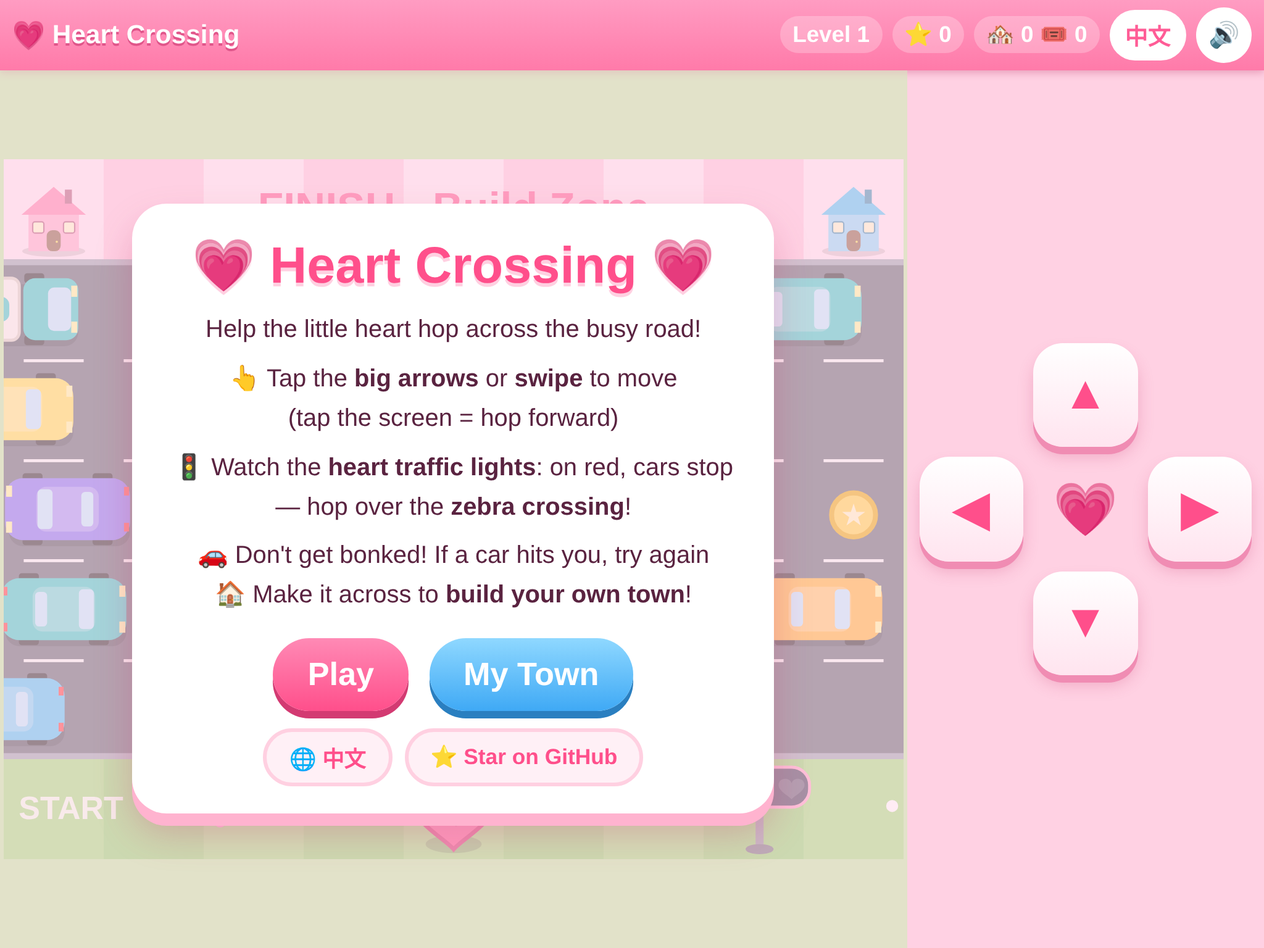
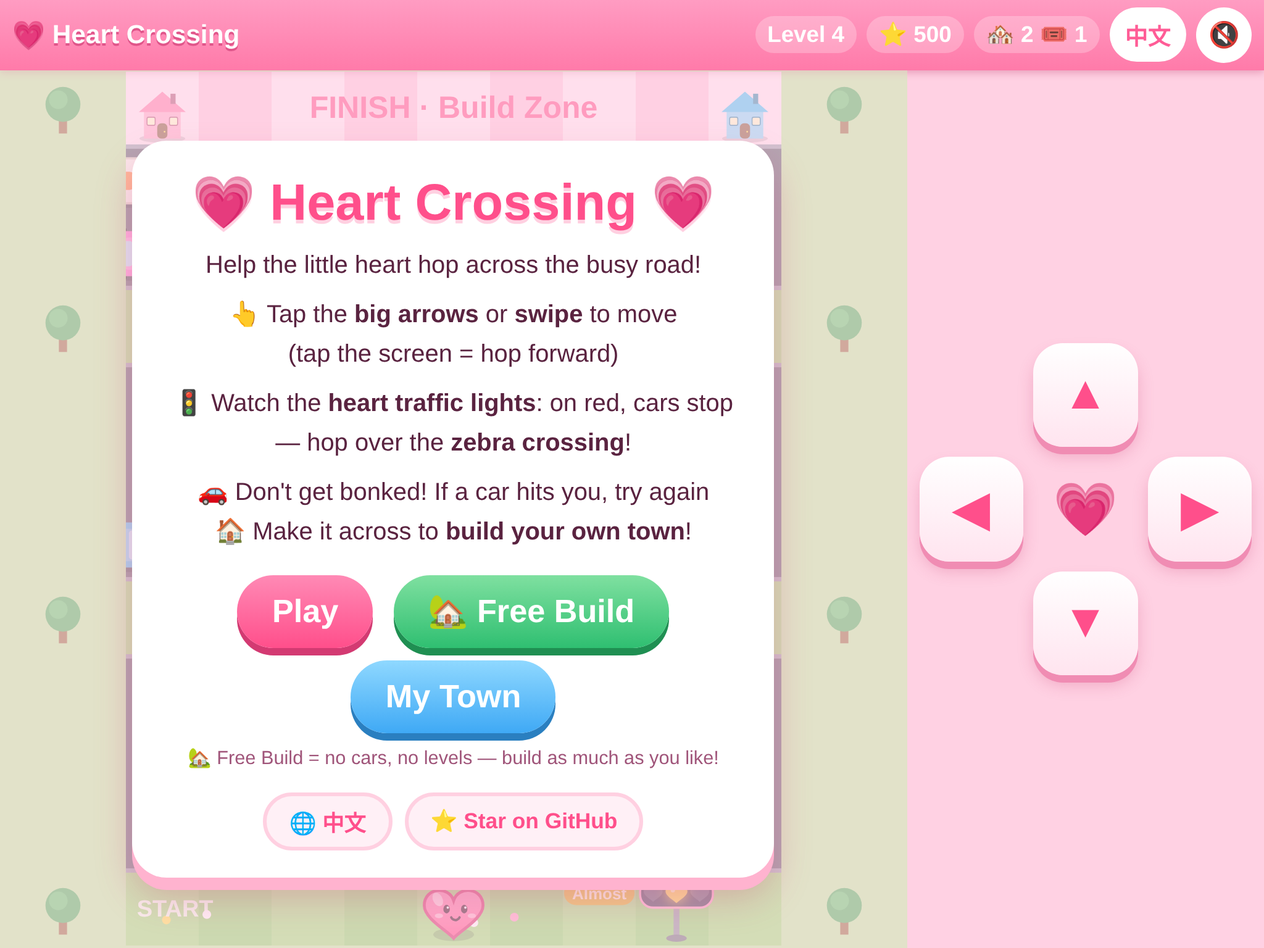
Add Free Build mode (自由蓋小鎮): unlimited building, 10x6 map, separate save, ?mode=free

diff --git a/index.html b/index.html
@@ -96,7 +96,12 @@ body.building #pad,body.inroom #pad{display:none;}
 .shareCard .row{display:flex;gap:10px;justify-content:center;flex-wrap:wrap;margin-top:8px;}
 .shareCard .big{margin:0;text-decoration:none;font-size:clamp(17px,2.8vmin,24px);padding:12px 22px;}
 #winShareBtn{background:linear-gradient(#ffe066,#ffb02e);box-shadow:0 6px 0 #d98a00;color:#6a3d00;animation:pop .4s ease-out;}
-#hud button.lang{width:auto;min-width:3.4em;padding:0 12px;font-size:1em;}
+.big.free{background:linear-gradient(#7fe0a0,#2fbf71);box-shadow:0 6px 0 #1f8f52;}
+.big.free:active{box-shadow:0 2px 0 #1f8f52;}
+.card .freeNote{font-size:clamp(13px,2vmin,16px);color:#a0557a;margin:.6em 0 0;}
+body.free #hLevel,body.free #hScore,body.free #goBtn,body.free #winShareBtn{display:none !important;}
+#menuBtn{min-height:44px;}
+#hud button.lang{width:auto;min-width:3.4em;padding:0 12px;font-size:1em;min-height:44px;}
 .cardFoot{margin-top:14px;display:flex;gap:10px;justify-content:center;flex-wrap:wrap;}
 .pill{min-height:44px;padding:8px 18px;border-radius:999px;background:#fff0f6;border:3px solid #ffd0e1;color:#ff4f8b;font-weight:900;
   font-size:clamp(15px,2.3vmin,19px);text-decoration:none;display:inline-flex;align-items:center;font-family:inherit;}
@@ -142,7 +147,9 @@ body.building #pad,body.inroom #pad{display:none;}
           <p data-i18n="how2"></p>
           <p data-i18n="how3"></p>
           <button class="big" id="startBtn" data-i18n="start">Play</button>
+          <button class="big free" id="freeBtn" data-i18n="free">🏡 Free Build</button>
           <button class="big alt" id="townBtn" data-i18n="town">My Town</button>
+          <p class="freeNote" data-i18n="freeNote"></p>
           <div class="cardFoot">
             <button class="pill" id="langBtn2">🌐 中文</button>
             <a class="pill" id="starLink" href="https://github.com/designowpro-debug/heart-crossing-game" target="_blank" rel="noopener" data-i18n="star">⭐ Star on GitHub</a>
@@ -190,6 +197,7 @@ body.building #pad,body.inroom #pad{display:none;}
         <button class="big hidden" id="winShareBtn">🎉 Share</button>
         <button class="big" id="goBtn">🚗 Cross!</button>
         <button class="big alt" id="shareBtn" data-i18n="shareTown">📸 Share my town</button>
+        <button class="pill" id="menuBtn" data-i18n="menu">🏠 Menu</button>
         <button id="clearBtn" data-i18n="clearTown">Clear town</button>
       </div>
     </div>
@@ -244,7 +252,12 @@ en:{docTitle:'Heart Crossing – cute road-crossing & town-building game',hudTit
  shareEmpty:'Cross the road to start building!',docTitleShort:'Heart Crossing',
  shareText:'I built my own Heart Town with {n} buildings and reached Level {l}! 💗 Come play Heart Crossing:',
  shareText1:'I started my own Heart Town and reached Level {l}! 💗 Come play Heart Crossing:',
- shareTextLevel:'I cleared Level {n} in Heart Crossing! 💗 Can you beat it?'},
+ shareTextLevel:'I cleared Level {n} in Heart Crossing! 💗 Can you beat it?',
+ free:'🏡 Free Build',menu:'🏠 Menu',freeNote:'🏡 Free Build = no cars, no levels — build as much as you like!',
+ bmFree:'🏡 Free Build: tap an empty spot to build: {k} — as many as you like! Tap a house to go inside 🛋',
+ cfHouseF:'Remove this house? The furniture inside will be gone too!',cfOtherF:'Remove the {n}?',removedF:'Removed! Build something new here 🏗',rmModeF:'Tap something to remove it',
+ shareFree:'My Heart Town: {n} buildings',shareFree1:'My Heart Town: 1 building',
+ shareTextFree:'I built my own Heart Town with {n} buildings! 💗 Build yours in Heart Crossing:',shareTextFree1:'I started building my own Heart Town! 💗 Build yours in Heart Crossing:'},
 zh:{docTitle:'愛心過馬路',hudTitle:'💗 愛心過馬路',sound:'聲音',lang:'語言',
  cardTitle:'💗 愛心過馬路 💗',intro:'幫小愛心穿過好多車子的馬路！',
  how1:'👆 用<b>大箭頭按鈕</b>，或在畫面上<b>滑一下</b>來移動<br>（點一下畫面 = 往前跳）',
@@ -282,7 +295,12 @@ zh:{docTitle:'愛心過馬路',hudTitle:'💗 愛心過馬路',sound:'聲音',la
  shareEmpty:'快去過馬路，開始蓋小鎮吧！',docTitleShort:'愛心過馬路',
  shareText:'我在「愛心過馬路」蓋了 {n} 個建築，已經到第 {l} 關了！💗 一起來玩：',
  shareText1:'我在「愛心過馬路」開始蓋小鎮，已經到第 {l} 關了！💗 一起來玩：',
- shareTextLevel:'我在「愛心過馬路」過了第 {n} 關！💗 你也來挑戰：'}
+ shareTextLevel:'我在「愛心過馬路」過了第 {n} 關！💗 你也來挑戰：',
+ free:'🏡 自由蓋小鎮',menu:'🏠 選單',freeNote:'🏡 自由蓋小鎮＝沒有車子、沒有關卡，想蓋多少就蓋多少！',
+ bmFree:'🏡 自由蓋小鎮：點空地蓋{k}，想蓋幾個都可以！點房子進去佈置 🛋',
+ cfHouseF:'要拆掉這棟房子嗎？裡面的家具也會不見喔！',cfOtherF:'要拆掉「{n}」嗎？',removedF:'拆掉了！可以在這裡蓋新的東西 🏗',rmModeF:'點一下要拆掉的東西',
+ shareFree:'我的愛心小鎮：{n} 個建築',shareFree1:'我的愛心小鎮：1 個建築',
+ shareTextFree:'我在「愛心過馬路」蓋了 {n} 個建築的愛心小鎮！💗 你也來蓋：',shareTextFree1:'我在「愛心過馬路」開始蓋愛心小鎮了！💗 你也來蓋：'}
 };
 var LANG=(function(){var q=(location.search.match(/[?&]lang=([a-zA-Z-]+)/)||[])[1];
   if(q){q=/^zh/i.test(q)?'zh':'en';try{localStorage.setItem('heartLang',q);}catch(e){}return q;}
@@ -298,16 +316,20 @@ var stage=document.getElementById('stage');
 var $=function(id){return document.getElementById(id);};
 
 // ---------- save ----------
-var save={houses:[],tickets:0,level:1,score:0,muted:false,style:0,color:0,kind:'house',gstyle:0,pstyle:0,ystyle:0,v:4};
-try{var s=JSON.parse(localStorage.getItem(SAVE_KEY)||'null'); if(s&&typeof s==='object'){for(var k in save){if(k in s)save[k]=s[k];}}}catch(e){}
-// migrate v1 -> v2: every house gets an id and its own interior (items)
-if(!Array.isArray(save.houses))save.houses=[];
-save.houses=save.houses.filter(function(h){return h&&typeof h==='object'&&isFinite(h.c)&&isFinite(h.r);});
-save.houses.forEach(function(h,i){if(!h.id)h.id='h'+Date.now().toString(36)+i;if(['garden','pond','play'].indexOf(h.kind)<0)h.kind='house';
-  if(!Array.isArray(h.items))h.items=[];
-  h.items=h.items.filter(function(it){return it&&typeof it.t==='string'&&isFinite(it.x)&&isFinite(it.y);});});
-if(['house','garden','pond','play'].indexOf(save.kind)<0)save.kind='house';save.v=4;
-function persist(){try{localStorage.setItem(SAVE_KEY,JSON.stringify(save,function(k,v){return (k==='pop'||k==='fxT')?undefined:v;}));}catch(e){}}
+var FREE_KEY='heartTownFree_v1',FREE=false;
+function loadSave(key){
+  var o={houses:[],tickets:0,level:1,score:0,muted:false,style:0,color:0,kind:'house',gstyle:0,pstyle:0,ystyle:0,v:4};
+  try{var s=JSON.parse(localStorage.getItem(key)||'null'); if(s&&typeof s==='object'){for(var k in o){if(k in s)o[k]=s[k];}}}catch(e){}
+  // migrate older saves: every house gets an id and its own interior (items)
+  if(!Array.isArray(o.houses))o.houses=[];
+  o.houses=o.houses.filter(function(h){return h&&typeof h==='object'&&isFinite(h.c)&&isFinite(h.r);});
+  o.houses.forEach(function(h,i){if(!h.id)h.id='h'+Date.now().toString(36)+i;if(['garden','pond','play'].indexOf(h.kind)<0)h.kind='house';
+    if(!Array.isArray(h.items))h.items=[];
+    h.items=h.items.filter(function(it){return it&&typeof it.t==='string'&&isFinite(it.x)&&isFinite(it.y);});});
+  if(['house','garden','pond','play'].indexOf(o.kind)<0)o.kind='house';o.v=4;return o;
+}
+var saveC=loadSave(SAVE_KEY),saveF=loadSave(FREE_KEY),save=saveC;
+function persist(){try{localStorage.setItem(FREE?FREE_KEY:SAVE_KEY,JSON.stringify(save,function(k,v){return (k==='pop'||k==='fxT')?undefined:v;}));}catch(e){}}
 
 // ---------- audio ----------
 var actx=null;
@@ -399,7 +421,7 @@ function buildLevel(){
 }
 
 var hintTimer=null;function showHint(){var h=$('hint');h.classList.remove('hidden');h.style.opacity='1';clearTimeout(hintTimer);hintTimer=setTimeout(function(){h.style.opacity='0';setTimeout(function(){h.classList.add('hidden');},500);},4500);}
-function startPlay(){unlockAudio();$('winShareBtn').classList.add('hidden');setTimeout(showHint,0);hideAll();document.body.classList.remove('building','inroom');buildLevel();mode='play';updateHud();}
+function startPlay(){unlockAudio();if(FREE)setFreeMode(false);$('winShareBtn').classList.add('hidden');setTimeout(showHint,0);hideAll();document.body.classList.remove('building','inroom');buildLevel();mode='play';updateHud();}
 function hideAll(){['titleScreen','crashScreen','buildBar','roomBar','hint','shareModal'].forEach(function(id){$(id).classList.add('hidden');});}
 
 function move(dir){
@@ -438,7 +460,7 @@ function enterBuild(msg){
 }
 function buildMsg(msg){
   var m=msg||'';
-  if(!m){var kn=(KINDS.filter(function(x){return x.k===save.kind;})[0]||KINDS[0]).n;m=save.tickets>0?T('bmHave',{n:save.tickets,k:kn}):(save.houses.length?T('bmHouses'):T('bmNone'));}
+  if(!m){var kn=(KINDS.filter(function(x){return x.k===save.kind;})[0]||KINDS[0]).n;m=FREE?T('bmFree',{k:kn}):save.tickets>0?T('bmHave',{n:save.tickets,k:kn}):(save.houses.length?T('bmHouses'):T('bmNone'));}
   $('buildMsg').textContent=m;
 }
 function updateGoBtn(){$('goBtn').textContent=T('go',{n:save.level});}
@@ -446,7 +468,7 @@ function updateGoBtn(){$('goBtn').textContent=T('go',{n:save.level});}
 function updateHud(){
   $('hLevel').textContent=T('level',{n:save.level});
   $('hScore').textContent='⭐ '+(save.score+(mode==='play'?0:0));
-  $('hHouses').textContent='🏘 '+save.houses.length+' 🎟 '+save.tickets;
+  $('hHouses').textContent=FREE?('🏘 '+save.houses.length):('🏘 '+save.houses.length+' 🎟 '+save.tickets);
   $('muteBtn').textContent=save.muted?'🔇':'🔊';
 }
 
@@ -683,6 +705,13 @@ function drawHouse(cx,base,s,style,color,pop){
 var town={x:0,y:0,cw:0,ch:0};
 var townAnim=save.houses;
 save.houses.forEach(function(h){h.pop=1;});
+function setFreeMode(f){
+  f=!!f;var old=save;FREE=f;save=f?saveF:saveC;save.muted=old.muted;
+  TOWN_C=f?10:8;TOWN_R=f?6:5;townAnim=save.houses;save.houses.forEach(function(h){if(!(h.pop<1))h.pop=1;});
+  document.body.classList.toggle('free',f);curHouse=null;townRemove=false;
+  if(typeof makeOptions==='function')makeOptions();updateHud();
+}
+function goTitle(){unlockAudio();mode='title';hideAll();document.body.classList.remove('building','inroom');if(FREE)setFreeMode(false);buildLevel();updateHud();$('titleScreen').classList.remove('hidden');}
 function layoutTown(){
   var barH=$('buildBar').offsetHeight||0, availH=view.h-barH-10, top=view.h*0.0;
   var cw=Math.min((view.w-20)/TOWN_C,(availH*0.82)/TOWN_R);
@@ -709,7 +738,7 @@ function drawTownPlots(){
   for(var r=0;r<TOWN_R;r++)for(var c=0;c<TOWN_C;c++){
     var x=town.x+c*town.cw,y=town.y+r*town.ch;
     ctx.fillStyle=(c+r)%2?'#8fd46a':'#97d972';ctx.fillRect(x,y,town.cw,town.ch);
-    if(!SHARE&&!occ[c+','+r]&&save.tickets>0){ctx.strokeStyle='rgba(255,255,255,'+(0.5+0.3*Math.sin(time*4))+')';ctx.lineWidth=2;ctx.setLineDash([6,5]);
+    if(!SHARE&&!occ[c+','+r]&&(FREE||save.tickets>0)){ctx.strokeStyle='rgba(255,255,255,'+(0.5+0.3*Math.sin(time*4))+')';ctx.lineWidth=2;ctx.setLineDash([6,5]);
       rr(x+town.cw*0.12,y+town.ch*0.12,town.cw*0.76,town.ch*0.76,8);ctx.stroke();ctx.setLineDash([]);}
   }
   var list=save.houses.slice().sort(function(a,b){return a.r-b.r;});
@@ -730,11 +759,11 @@ function tapTown(px,py){
   var hit=null;save.houses.forEach(function(h){if(h.c===c&&h.r===r)hit=h;});
   if(townRemove){if(hit)removeAt(hit);else{sfx.no();buildMsg(T('rmHint'));}return;}
   if(hit){if(kindOf(hit)==='house')enterHouse(hit);else tapFx(hit);return;}
-  if(save.tickets<=0){sfx.no();buildMsg(T('noBuilds'));return;}
+  if(!FREE&&save.tickets<=0){sfx.no();buildMsg(T('noBuilds'));return;}
   var K=save.kind,h={id:'h'+Date.now().toString(36)+Math.floor(Math.random()*1e4),kind:K,c:c,r:r,style:K==='garden'?save.gstyle:K==='pond'?save.pstyle:K==='play'?save.ystyle:save.style,color:save.color,items:[],pop:0};
-  save.houses.push(h);save.tickets--;persist();if(K==='garden')sfx.bloom();else if(K==='pond')sfx.splash();else if(K==='play')sfx.boing();else sfx.place();
+  save.houses.push(h);if(!FREE)save.tickets--;persist();if(K==='garden')sfx.bloom();else if(K==='pond')sfx.splash();else if(K==='play')sfx.boing();else sfx.place();
   for(var i=0;i<14;i++){var a=Math.random()*Math.PI*2;particles.push({x:c+0.5,y:TOWN_R-r-0.4,vx:Math.cos(a)*3,vy:Math.sin(a)*3,life:1,max:0.7,color:pick(['#ffe14d','#fff','#ff9cc2']),type:'star',s:0.12,g:0});}
-  if(save.houses.length>=TOWN_C*TOWN_R)buildMsg(T('full'));else buildMsg((K==='house'?T('builtHouse'):T('builtOther',{n:kindName(h)}))+(save.tickets>0?T('left',{n:save.tickets}):''));
+  if(save.houses.length>=TOWN_C*TOWN_R)buildMsg(T('full'));else buildMsg((K==='house'?T('builtHouse'):T('builtOther',{n:kindName(h)}))+(!FREE&&save.tickets>0?T('left',{n:save.tickets}):''));
   updateHud();
 }
 
@@ -744,7 +773,7 @@ function makeOptions(){
   KINDS.forEach(function(K){var b=document.createElement('button');b.className='kind'+(!townRemove&&save.kind===K.k?' sel':'');b.setAttribute('data-k',K.k);b.textContent=K.e+' '+K.n;
     b.addEventListener('click',function(){save.kind=K.k;townRemove=false;persist();sfx.click();makeOptions();buildMsg();});kg.appendChild(b);});
   var rb=document.createElement('button');rb.id='removeBtn';rb.className='kind rm'+(townRemove?' sel':'');rb.textContent=townRemove?T('rmBtnOn'):T('rmBtn');
-  rb.addEventListener('click',function(){townRemove=!townRemove;sfx.click();makeOptions();buildMsg(townRemove?T('rmMode'):'');});kg.appendChild(rb);
+  rb.addEventListener('click',function(){townRemove=!townRemove;sfx.click();makeOptions();buildMsg(townRemove?T(FREE?'rmModeF':'rmMode'):'');});kg.appendChild(rb);
   sg.style.display=cg.style.display=townRemove?'none':'';
   var list=save.kind==='garden'?GARDENS:save.kind==='pond'?PONDS:save.kind==='play'?PLAYS:STYLES,key=save.kind==='garden'?'gstyle':save.kind==='pond'?'pstyle':save.kind==='play'?'ystyle':'style';
   list.forEach(function(st,i){var b=document.createElement('button');b.className='opt'+(save[key]===i?' sel':'');b.textContent=st.e+' '+st.n;
@@ -959,11 +988,11 @@ function playFx(h){
 }
 
 function removeAt(h){
-  var nm=kindName(h),msg=kindOf(h)==='house'?T('cfHouse'):T('cfOther',{n:nm});
+  var nm=kindName(h),msg=kindOf(h)==='house'?T(FREE?'cfHouseF':'cfHouse'):T(FREE?'cfOtherF':'cfOther',{n:nm});
   if(!confirm(msg))return;
-  var i=save.houses.indexOf(h);if(i>=0)save.houses.splice(i,1);save.tickets++;persist();tone(400,0.15,'square',0.06,150);
+  var i=save.houses.indexOf(h);if(i>=0)save.houses.splice(i,1);if(!FREE)save.tickets++;persist();tone(400,0.15,'square',0.06,150);
   for(var p=0;p<12;p++){var a=Math.random()*Math.PI*2;particles.push({x:h.c+0.5,y:TOWN_R-h.r-0.5,vx:Math.cos(a)*2.5,vy:Math.sin(a)*2.5,life:1,max:0.6,color:pick(['#ccc','#fff','#e0c9a6']),type:'dot',s:0.1,g:0});}
-  buildMsg(T('removed',{n:save.tickets}));updateHud();
+  buildMsg(FREE?T('removedF'):T('removed',{n:save.tickets}));updateHud();
 }
 
 // ---------- house interiors ----------
@@ -1226,7 +1255,9 @@ document.addEventListener('touchstart',unlockAudio,{passive:true});
 $('startBtn').addEventListener('click',function(){unlockAudio();sfx.click();startPlay();});
 $('retryBtn').addEventListener('click',function(){unlockAudio();sfx.click();startPlay();});
 $('goBtn').addEventListener('click',function(){unlockAudio();sfx.click();startPlay();});
-$('townBtn').addEventListener('click',function(){unlockAudio();sfx.click();enterBuild();});
+$('townBtn').addEventListener('click',function(){unlockAudio();sfx.click();if(FREE)setFreeMode(false);enterBuild();});
+$('freeBtn').addEventListener('click',function(){unlockAudio();sfx.click();setFreeMode(true);enterBuild();});
+$('menuBtn').addEventListener('click',function(){sfx.click();goTitle();});
 $('muteBtn').addEventListener('click',function(){unlockAudio();save.muted=!save.muted;persist();updateHud();sfx.click();});
 $('clearBtn').addEventListener('click',function(){if(confirm(T('cfTown'))){save.houses.length=0;persist();buildMsg(T('townCleared'));updateHud();}});
 
@@ -1238,7 +1269,8 @@ function frame(now){var dt=Math.min(0.05,(now-last)/1000);last=now;
   requestAnimationFrame(frame);}
 // ---------- share my town ----------
 var GAME_URL='https://designowpro-debug.github.io/heart-crossing-game/',SHARE=false,lastShare=null,winLevel=0;
-function shareStatsText(){var n=save.houses.length;return T(n===1?'shareStats1':'shareStats',{n:n,l:save.level});}
+function shareURL(){return FREE?GAME_URL+'?mode=free':GAME_URL;}
+function shareStatsText(){var n=save.houses.length;return FREE?T(n===1?'shareFree1':'shareFree',{n:n}):T(n===1?'shareStats1':'shareStats',{n:n,l:save.level});}
 function renderShare(levelN){
   var S=1080,c=document.createElement('canvas');c.width=c.height=S;var g=c.getContext('2d');
   var oc=ctx,ot=town,os=SHARE;ctx=g;SHARE=true;
@@ -1264,7 +1296,7 @@ function renderShare(levelN){
     if(!save.houses.length){g.fillStyle='rgba(90,35,64,.6)';g.font='900 40px sans-serif';g.fillText(T('shareEmpty'),540,gy+gh/2);}
     g.restore();
     g.font='800 44px sans-serif';g.fillStyle='#5a2340';g.fillText(levelN?T(save.houses.length===1?'shareBuild1':'shareBuild',{n:save.houses.length}):shareStatsText(),540,gy+gh+16+50);
-    g.font='800 28px sans-serif';g.fillStyle='#ff4f8b';g.fillText('▶ '+GAME_URL.replace(/^https:\/\//,'').replace(/\/$/,''),540,1000);
+    g.font='800 '+(FREE?25:28)+'px sans-serif';g.fillStyle='#ff4f8b';g.fillText('▶ '+shareURL().replace(/^https:\/\//,'').replace(/\/$/,''),540,1000);
   }finally{ctx=oc;town=ot;SHARE=os;}
   return c;
 }
@@ -1272,15 +1304,15 @@ function dataURLFile(u,name){var b=atob(u.split(',')[1]),n=b.length,a=new Uint8A
   try{return new File([a],name,{type:'image/png'});}catch(e){var bl=new Blob([a],{type:'image/png'});bl.name=name;return bl;}}
 function prepShare(levelN){
   var u=renderShare(levelN).toDataURL('image/png');
-  var text=levelN?T('shareTextLevel',{n:levelN}):T(save.houses.length===1?'shareText1':'shareText',{n:save.houses.length,l:save.level});
+  var n=save.houses.length,text=levelN?T('shareTextLevel',{n:levelN}):FREE?T(n===1?'shareTextFree1':'shareTextFree',{n:n}):T(n===1?'shareText1':'shareText',{n:n,l:save.level});
   lastShare={url:u,text:text,file:dataURLFile(u,levelN?'heart-crossing-level-'+levelN+'.png':'my-heart-town.png')};return lastShare;
 }
 // must run synchronously inside the tap handler (iOS needs the user gesture)
 function shareNow(sh){
   try{
     if(navigator.share&&navigator.canShare&&navigator.canShare({files:[sh.file]})){
-      navigator.share({files:[sh.file],title:T('docTitleShort'),text:sh.text+' '+GAME_URL}).catch(function(e){if(!e||e.name!=='AbortError')showShareModal(sh);});return 'files';}
-    if(navigator.share){navigator.share({title:T('docTitleShort'),text:sh.text,url:GAME_URL}).catch(function(e){if(!e||e.name!=='AbortError')showShareModal(sh);});return 'text';}
+      navigator.share({files:[sh.file],title:T('docTitleShort'),text:sh.text+' '+shareURL()}).catch(function(e){if(!e||e.name!=='AbortError')showShareModal(sh);});return 'files';}
+    if(navigator.share){navigator.share({title:T('docTitleShort'),text:sh.text,url:shareURL()}).catch(function(e){if(!e||e.name!=='AbortError')showShareModal(sh);});return 'text';}
   }catch(e){}
   showShareModal(sh);return 'modal';
 }
@@ -1292,9 +1324,9 @@ function showShareModal(sh){
 }
 function copyLink(){
   var done=function(){$('copyLinkBtn').textContent=T('copied');tone(880,0.1,'triangle',0.08);setTimeout(function(){$('copyLinkBtn').textContent=T('copyLink');},2000);};
-  var fallback=function(){var t=document.createElement('textarea');t.value=GAME_URL;t.setAttribute('readonly','');t.style.position='fixed';t.style.opacity='0';document.body.appendChild(t);
-    t.select();t.setSelectionRange(0,99999);var ok=false;try{ok=document.execCommand('copy');}catch(e){}document.body.removeChild(t);if(ok)done();else window.prompt(T('copyPrompt'),GAME_URL);};
-  try{if(navigator.clipboard&&window.isSecureContext){navigator.clipboard.writeText(GAME_URL).then(done,fallback);return;}}catch(e){}
+  var fallback=function(){var t=document.createElement('textarea');t.value=shareURL();t.setAttribute('readonly','');t.style.position='fixed';t.style.opacity='0';document.body.appendChild(t);
+    t.select();t.setSelectionRange(0,99999);var ok=false;try{ok=document.execCommand('copy');}catch(e){}document.body.removeChild(t);if(ok)done();else window.prompt(T('copyPrompt'),shareURL());};
+  try{if(navigator.clipboard&&window.isSecureContext){navigator.clipboard.writeText(shareURL()).then(done,fallback);return;}}catch(e){}
   fallback();
 }
 $('shareBtn').addEventListener('click',function(){doShare(0);});
@@ -1319,10 +1351,11 @@ $('langBtn').addEventListener('click',toggleLang);$('langBtn2').addEventListener
 
 makeOptions();makeFurnPalette();buildLevel();updateHud();applyLang();
 // test hooks via URL hash (e.g. #build)
-if(location.hash==='#build'){enterBuild();}
+if(/[?&]mode=free(&|$)/.test(location.search)){setFreeMode(true);enterBuild();}
+else if(location.hash==='#build'){enterBuild();}
 else if(location.hash==='#play'){startPlay();}
 requestAnimationFrame(frame);
-window.__game={shareStatsText:shareStatsText,prepShare:prepShare,setLang:setLang,get lang(){return LANG;},get lights(){return lights;},get rows(){return rows;},get player(){return player;},move:move,get mode(){return mode;},save:save,startPlay:startPlay,enterHouse:enterHouse,enterBuild:enterBuild,roomRect:function(){layoutRoom();return {x:room.x,y:room.y,w:room.w,h:room.h};},itemRect:function(it){layoutRoom();return itemRect(it);},trashPos:function(){layoutRoom();return trashPos();},get curHouse(){return curHouse;},townRect:function(){layoutTown();return {x:town.x,y:town.y,cw:town.cw,ch:town.ch};}};
+window.__game={shareStatsText:shareStatsText,prepShare:prepShare,setLang:setLang,get lang(){return LANG;},get lights(){return lights;},get rows(){return rows;},get player(){return player;},move:move,get mode(){return mode;},get save(){return save;},get free(){return FREE;},get saveC(){return saveC;},get saveF(){return saveF;},setFreeMode:setFreeMode,goTitle:goTitle,startPlay:startPlay,enterHouse:enterHouse,enterBuild:enterBuild,roomRect:function(){layoutRoom();return {x:room.x,y:room.y,w:room.w,h:room.h};},itemRect:function(it){layoutRoom();return itemRect(it);},trashPos:function(){layoutRoom();return trashPos();},get curHouse(){return curHouse;},townRect:function(){layoutTown();return {x:town.x,y:town.y,cw:town.cw,ch:town.ch};}};
 })();
 </script>
 </body>

diff --git a/README.md b/README.md
@@ -5,7 +5,7 @@
 **Hop a little heart across busy roads — then build your own cute town!**
 A free, cozy browser game for kids (and grown-ups). No install, no ads, no sign-up.
 
-### [▶ Play now](https://designowpro-debug.github.io/heart-crossing-game/)
+### [▶ Play now](https://designowpro-debug.github.io/heart-crossing-game/) · [🏡 Free Build](https://designowpro-debug.github.io/heart-crossing-game/?mode=free)
 
 [English](https://designowpro-debug.github.io/heart-crossing-game/?lang=en) · [中文](https://designowpro-debug.github.io/heart-crossing-game/?lang=zh)
 
@@ -20,6 +20,7 @@ A free, cozy browser game for kids (and grown-ups). No install, no ads, no sign-
 - 🏠 **Build a town** — every successful crossing earns a build: houses (4 styles, 6 colors), gardens, ponds and playgrounds
 - 🛋 **Go inside your houses** — decorate each room with 12 kinds of furniture: drag, flip and remove
 - 🌷 **Living town** — swaying flowers, butterflies, ducks and fish, a fountain, swings, a slide, a seesaw, a sandbox, a basketball court and a pool. Tap them for fun animations!
+- 🏡 **Free Build mode** — no cars, no levels, no tickets: just build as much as you like on a bigger 10×6 map. Direct link: [`?mode=free`](https://designowpro-debug.github.io/heart-crossing-game/?mode=free). Your free town is saved separately, so it never touches your challenge town
 - 📸 **Share your town** — one tap makes a cute picture of your town (or "I cleared Level N!") to share or save, no accounts or tracking
 - 🌐 **English & 中文** — switch any time with the language button
 - 📱 **iPad & phone friendly** — big touch buttons, swipe controls, works in portrait and landscape, add to Home Screen for fullscreen
@@ -33,15 +34,21 @@ A free, cozy browser game for kids (and grown-ups). No install, no ads, no sign-
 4. Reach the **FINISH** row to earn a build 🎟, then tap an empty spot in your town to build.
 5. Tap a house to go inside and decorate. Tap gardens, ponds and playground items to see what happens!
 
+**Just want to build?** Tap **🏡 Free Build** on the title screen (or open [https://designowpro-debug.github.io/heart-crossing-game/?mode=free](https://designowpro-debug.github.io/heart-crossing-game/?mode=free)). Tap **🏠 Menu** to go back.
+
 ## 📸 Screenshots
 
 | Title | Crossing (portrait) | Town |
 |---|---|---|
 | <img src="screenshots/title.png" width="280"> | <img src="screenshots/play-portrait.png" width="200"> | <img src="screenshots/town.png" width="280"> |
 
-| Inside a house | Heart traffic lights | 中文版 Playground |
+| Free Build | Inside a house | Heart traffic lights |
 |---|---|---|
-| <img src="screenshots/room.png" width="280"> | <img src="screenshots/traffic-lights.png" width="280"> | <img src="screenshots/playground-zh.png" width="280"> |
+| <img src="screenshots/free-build.png" width="280"> | <img src="screenshots/room.png" width="280"> | <img src="screenshots/traffic-lights.png" width="280"> |
+
+| 中文版 Playground |
+|---|
+| <img src="screenshots/playground-zh.png" width="280"> |
 
 <p align="center"><b>Share image</b><br><img src="screenshots/share-town.png" width="360" alt="Share my town image"></p>
 
@@ -61,6 +68,7 @@ One self-contained `index.html`: HTML5 canvas, vanilla JavaScript and the Web Au
 每成功過一次馬路就得到 1 個建造機會，可以在自己的小鎮蓋**房子、花園、池塘、遊戲區**（溜滑梯、盪鞦韆、蹺蹺板、攀爬架、沙坑、籃球場、游泳池），還可以**走進房子擺家具**。
 
 - ▶ 馬上玩：<https://designowpro-debug.github.io/heart-crossing-game/?lang=zh>
+- 🏡 **自由蓋小鎮**：沒有車子、沒有關卡、不用建造券，想蓋多少就蓋多少（10×6 大地圖）！直接連結：<https://designowpro-debug.github.io/heart-crossing-game/?mode=free&lang=zh>（自由小鎮另外存檔，不會影響原本的小鎮）
 - 支援 iPad、手機和電腦；可以「加入主畫面」全螢幕玩
 - 右上角按鈕可以切換 **English / 中文**
 - 📸「分享我的小鎮」：一鍵做出可愛的小鎮圖片，可以分享或存起來
